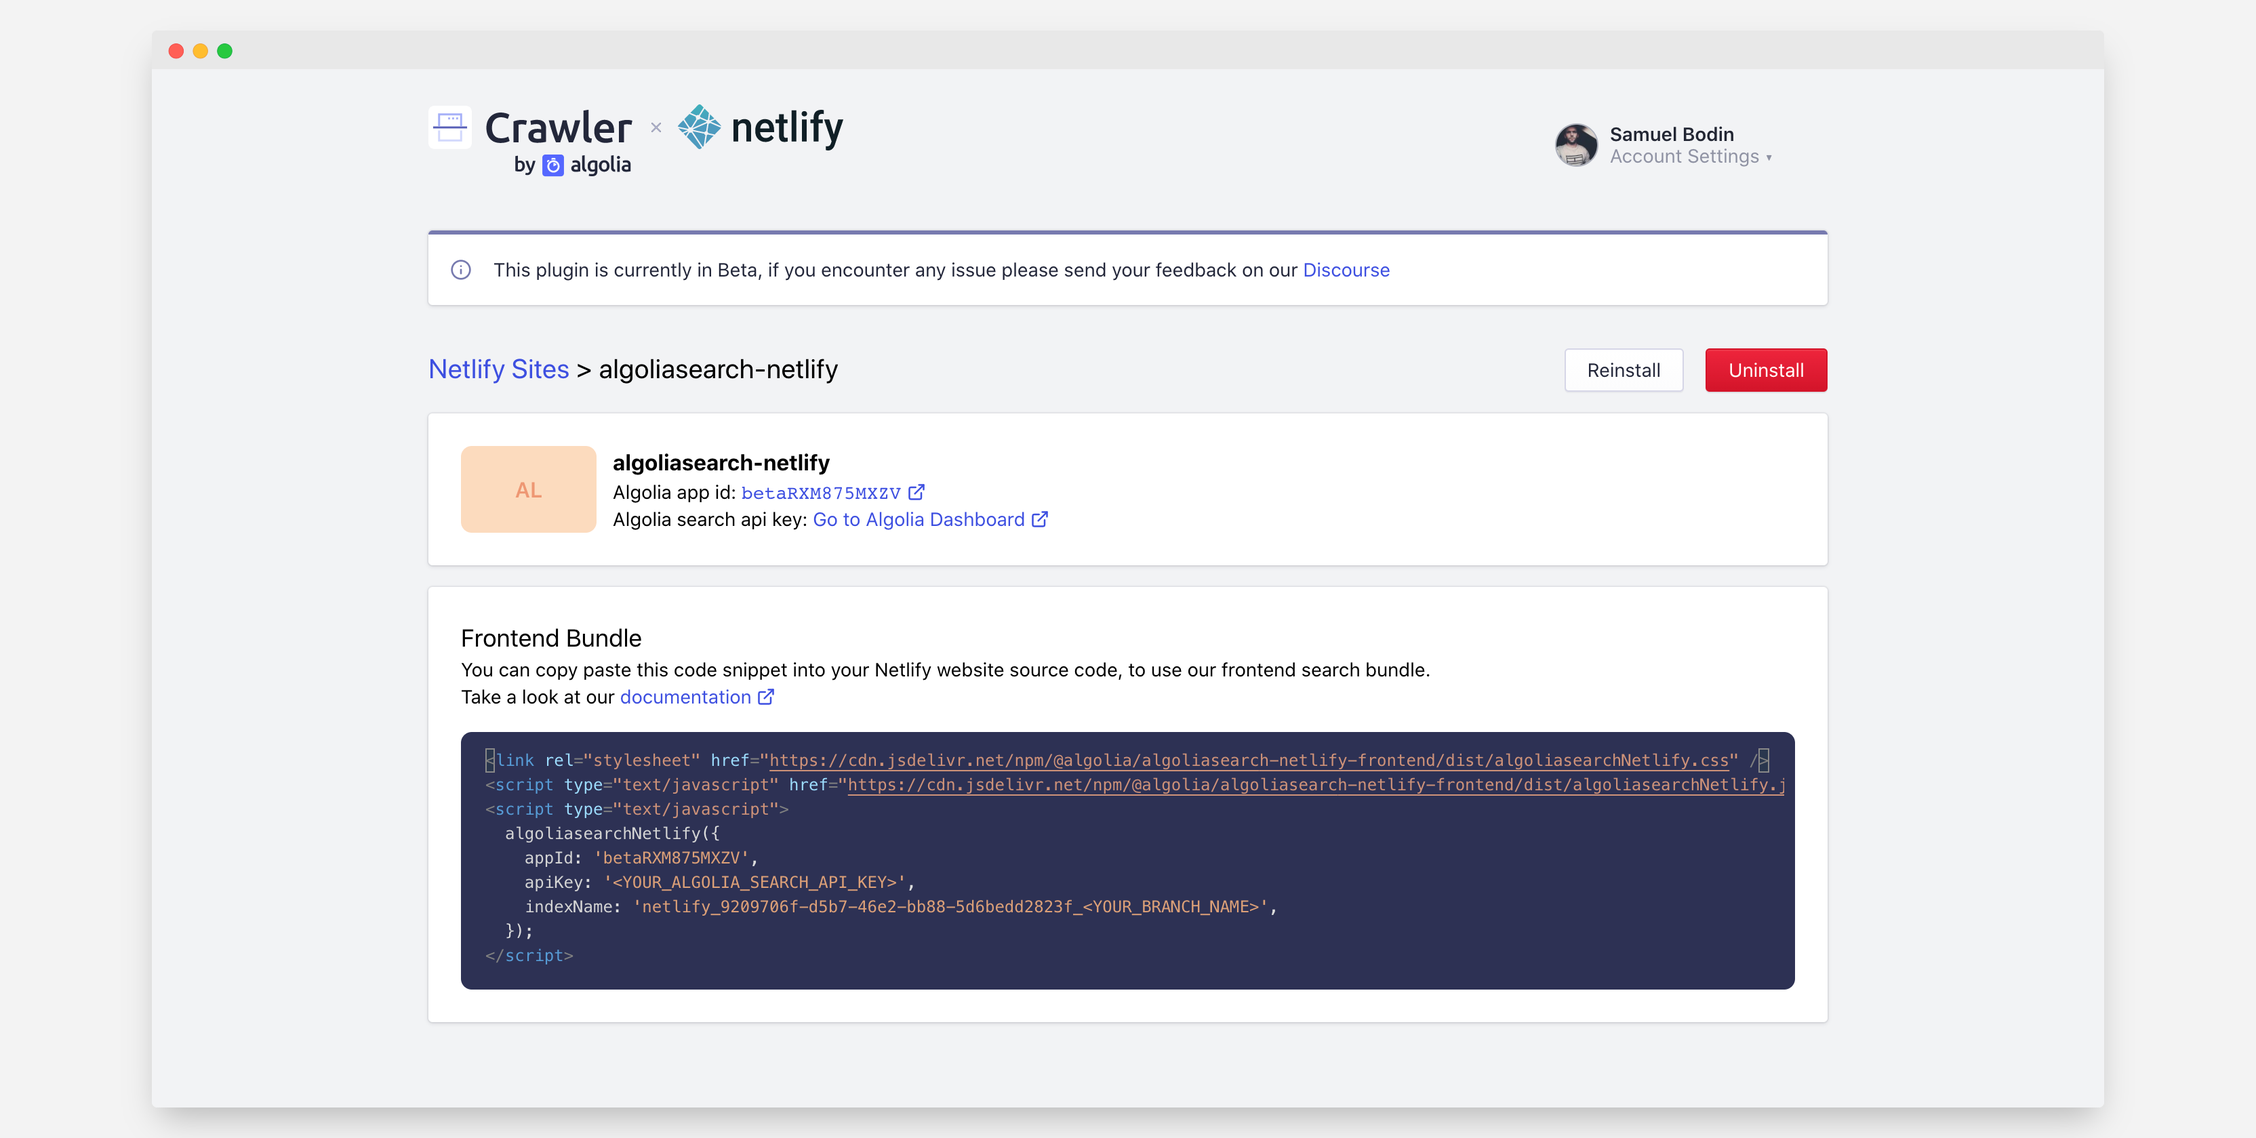
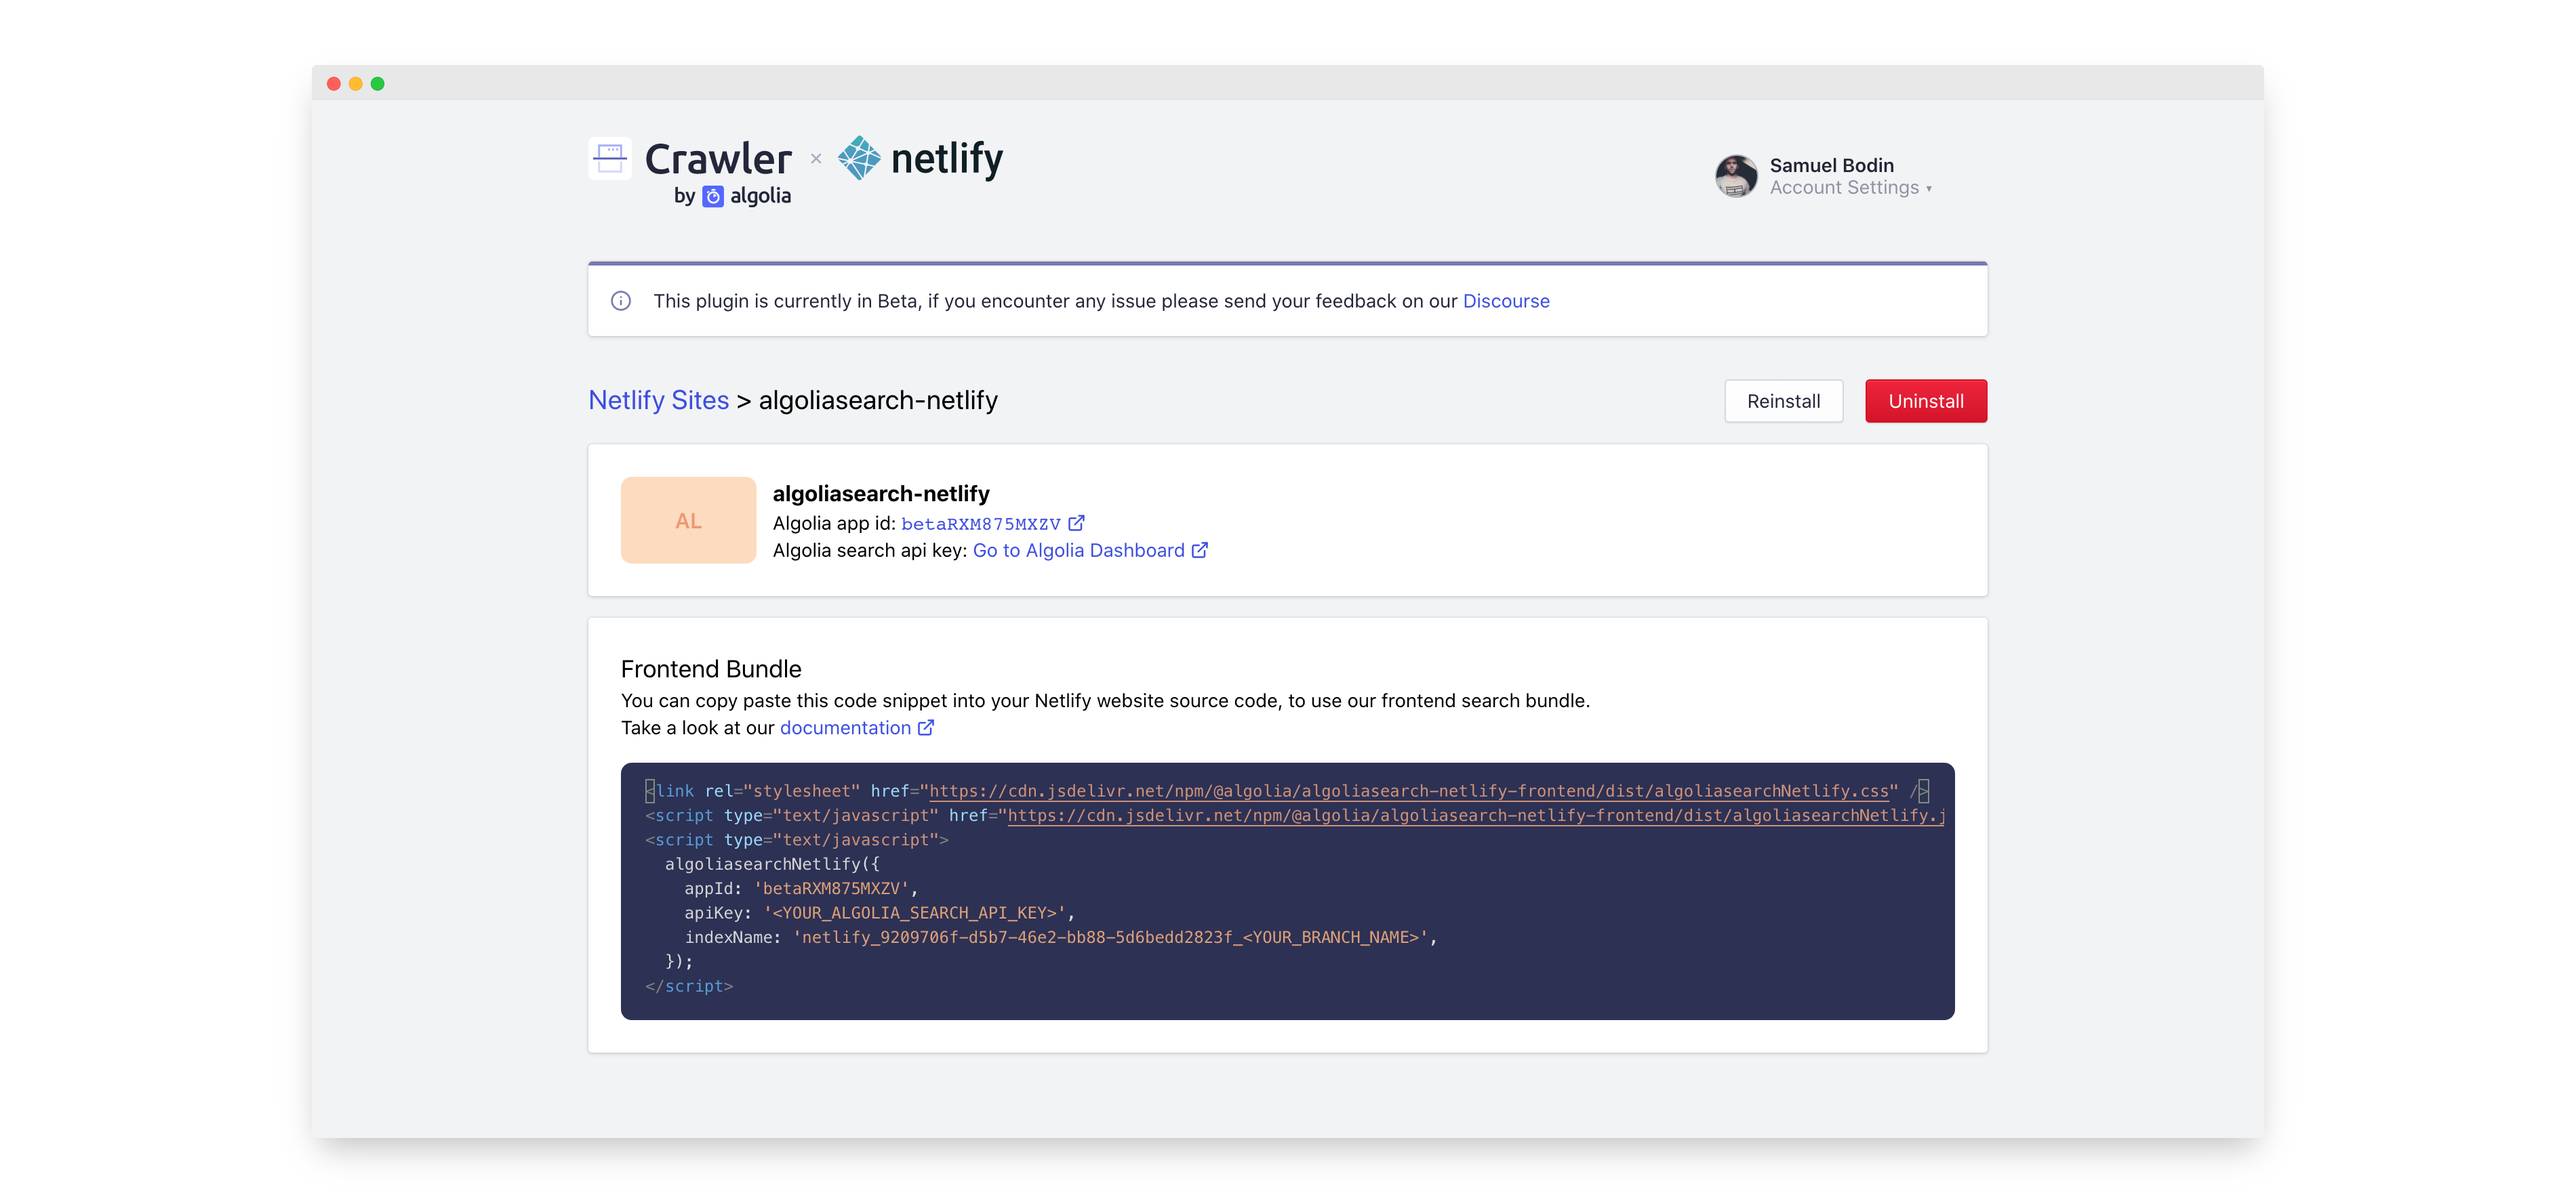
more space

diff --git a/README.md b/README.md
@@ -37,7 +37,7 @@ We will also create one Algolia application with a dedicated [free plan](https:/
 <img src="/docs/screenshots/screely-1601374987493.png?raw=true" alt="Search and install your site.">
 <img src="/docs/screenshots/screely-1601374996541.png?raw=true" alt="Search and install your site.">
 
-The plugin is now correctly installed and should already index your site at your next deploy.
+The plugin is now correctly installed and should already index your site at the next deploy.
 <img src="/docs/screenshots/screely-1601375010606.png?raw=true" alt="Search and install your site.">
 
 ### Install the frontend bundle
